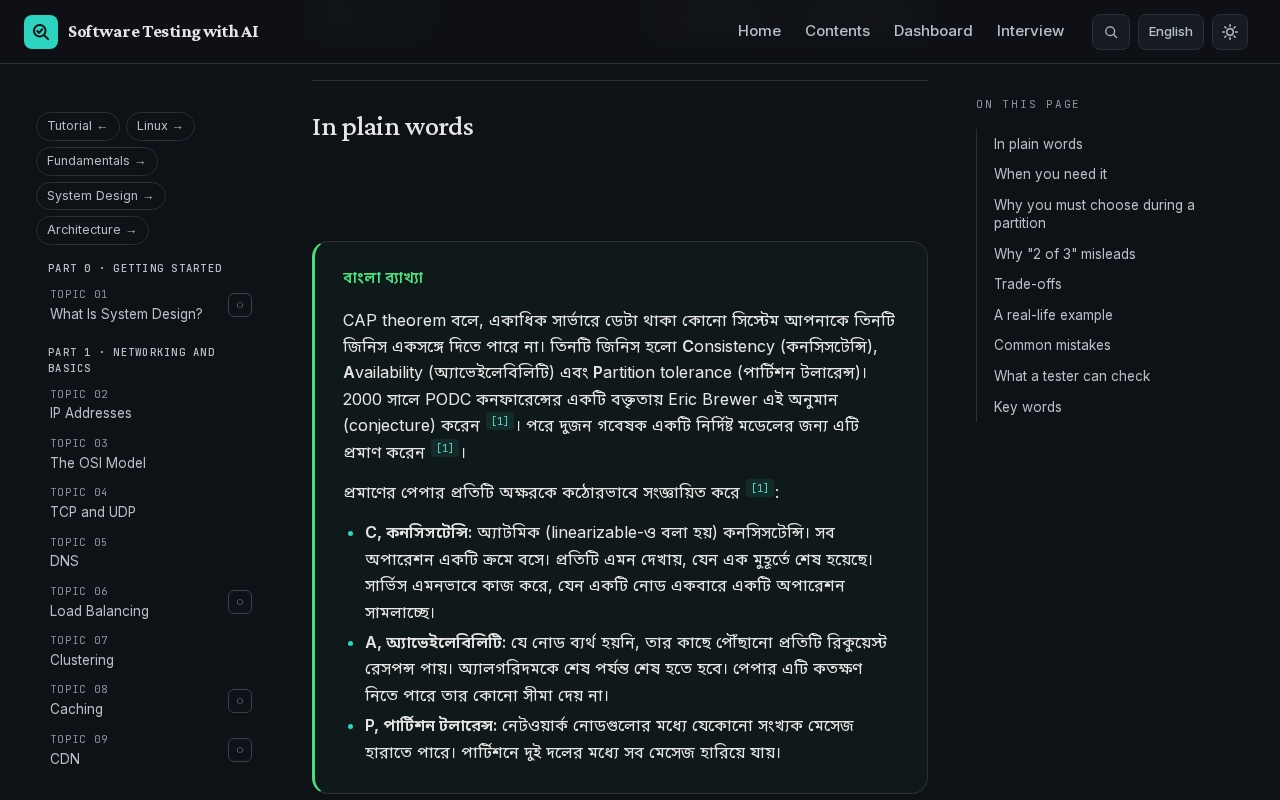
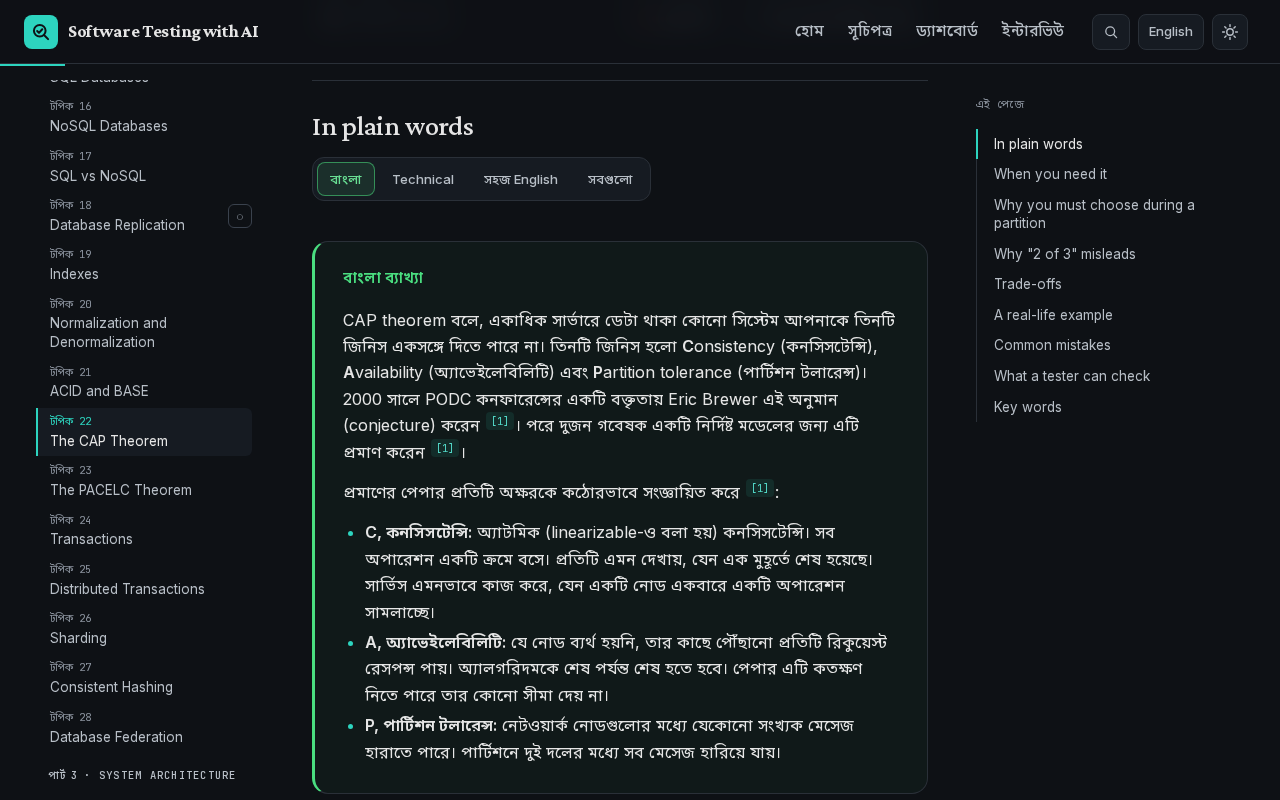
Refactor code structure for improved readability and maintainability

diff --git a/README.md b/README.md
@@ -97,6 +97,10 @@ The `বাংলা` button in the header sets the default voice for the whole 
 
 ![A Course page with Bangla as the default voice](docs/assets/bangla.png)
 
+The same button also translates the interface. In Bangla mode, the header links, the hero, the buttons, the progress labels, the left lists, the search dialog, the footer, and the 404 page show Bangla text. The titles and descriptions of pages, stages, chapters, and topics, and the names of the modules, stay in English. Each English text has a Bangla twin in `lib/bn/`, and a test checks that no key is missing.
+
+![The home page with the Bangla interface](docs/assets/bangla-home.png)
+
 The Bangla text of the Course follows the term style of [systemdesignbangla.com](https://www.systemdesignbangla.com/): common concept words are in Bangla letters, and acronyms, products, and commands stay in English. The plain English and Bangla texts add no fact that the Technical text does not have. A separate agent checked this for each page.
 
 A link or a search result that points into a hidden voice opens that voice and scrolls to the target.
@@ -237,7 +241,7 @@ Run the `out` checks after `npm run build`, on a build without a base path.
 app/                 Routes, root layout, global styles, sitemap, robots, search index, PWA files
 components/          Site shell, navigation, page parts, MDX components, voices, progress, module pages
 content/<group>/     The MDX pages: 23 tutorial, 12 Linux, 11 Fundamentals, 15 System Design, 20 Architecture, 40 Course
-lib/                 nav.ts (tutorial page order), one data file for each module, search, voices, PWA, and other helpers
+lib/                 nav.ts (tutorial page order), one data file for each module, search, voices, the Bangla twins of the UI text (bn/), PWA, and other helpers
 tests/               Unit tests (node --test)
 scripts/             Python check scripts and the route maps (one JSON file for each module)
 public/              Icons, images of the pages, and static files
